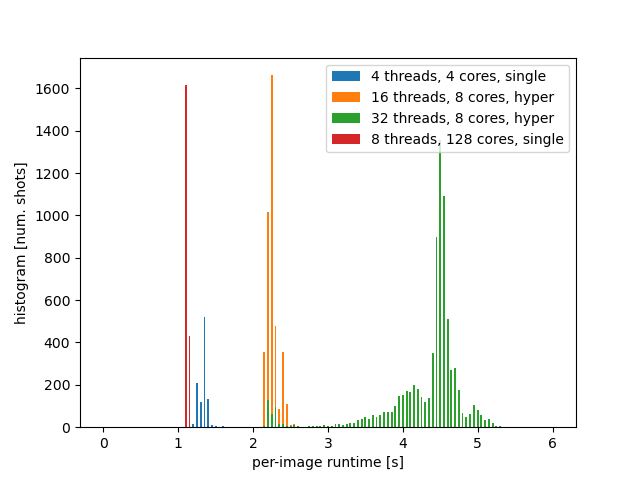
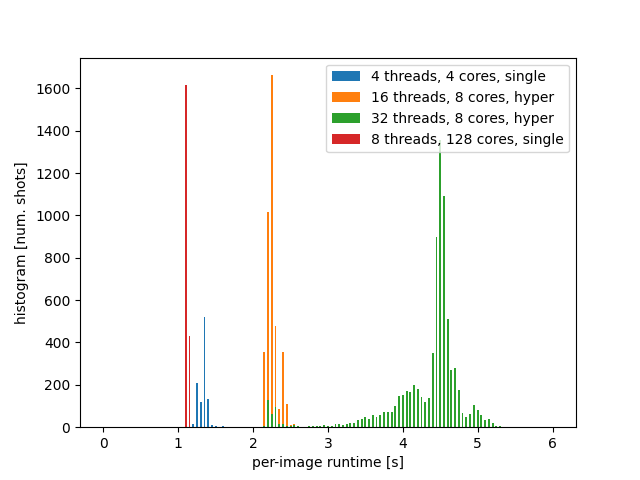
minor

diff --git a/src/plotting.runtimes.py b/src/plotting.runtimes.py
@@ -18,11 +18,6 @@ def main():
         labels = ['4 threads, 4 cores, single',
                 '16 threads, 8 cores, hyper',
                 '32 threads, 8 cores, hyper']
-        '''
-        baratzapath = '/media/coffee/9C33-6BBD/CookieSimSlim_data/output/4in4/'
-        officepath = '/media/coffee/9C33-6BBD/CookieSimSlim_data/output/16in16/'
-        officepath2 = '/media/coffee/9C33-6BBD/CookieSimSlim_data/output/32in16/'
-        '''
     elif re.search('sdf',nodename):
         paths = ['/sdf/data/lcls/ds/tmo/tmox42619/scratch/CookieSimSlim_data/output/4in4/',
                 '/sdf/data/lcls/ds/tmo/tmox42619/scratch/CookieSimSlim_data/output/16in16/',
@@ -34,8 +29,19 @@ def main():
                 '32 threads, 8 cores, hyper',
                 '8 threads, 128 cores, single'
                 ]
+    elif re.search('office',nodename):
+        paths = ['/nvme0/CookieSimSlim_data/output/4in4/',
+                '/nvme0/CookieSimSlim_data/output/16in16/',
+                '/nvme0/CookieSimSlim_data/output/32in16/',
+                '/nvme0/CookieSimSlim_data/output/1in128/'
+                ]
+        labels = ['4 threads, 4 cores, single',
+                '16 threads, 8 cores, hyper',
+                '32 threads, 8 cores, hyper',
+                '8 threads, 128 cores, single'
+                ]
     else:
-        print('working on unfamiliar node, fillepaths likely do not exist')
+        print('working on unfamiliar node, filepaths likely do not exist')
         return
 
     xbins = np.arange(0,6.1,.05,dtype=np.float16)

diff --git a/src/mrs_pacman.py b/src/mrs_pacman.py
@@ -10,6 +10,7 @@ import math
 import time
 import cv2
 import multiprocessing as mp
+import pyJoules as pj
 
 from utils import gauss,addGauss2d,addGauss2d_padding_10,detect_peaks
 
@@ -284,4 +285,5 @@ if __name__ == '__main__':
         plt.show()
 
     else:
+        @pj.energy_meter.measure_energy
         main(sys.argv[1],plotting=False)
